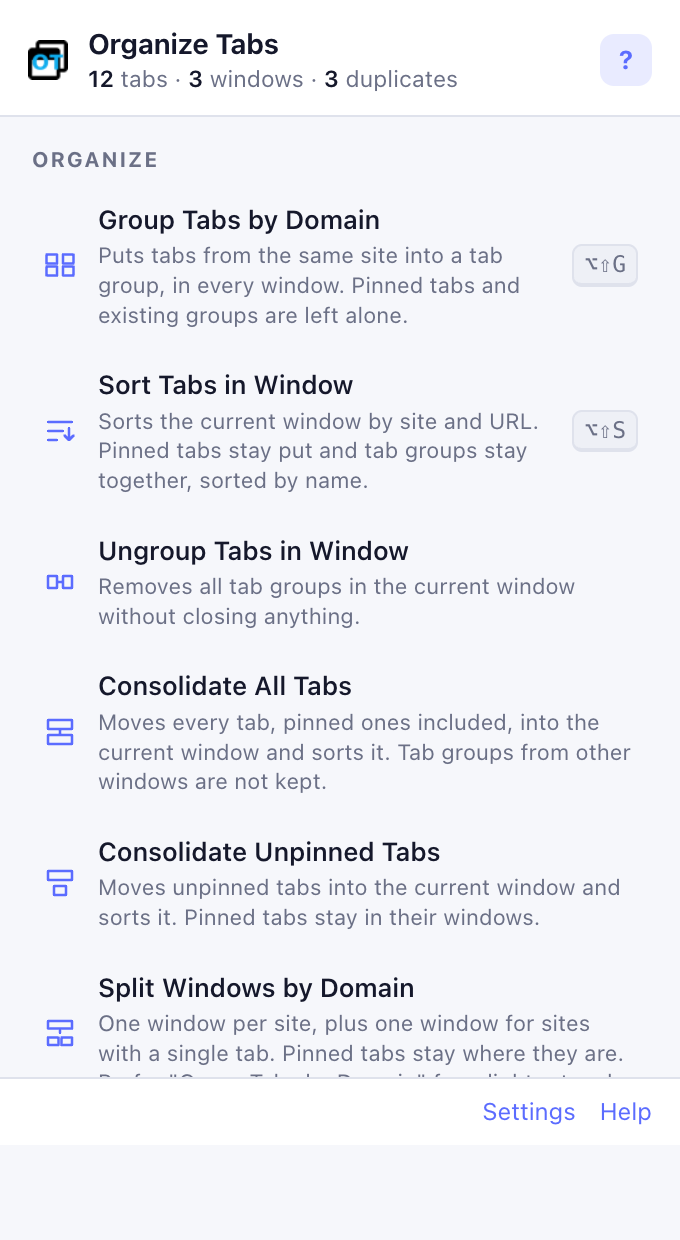
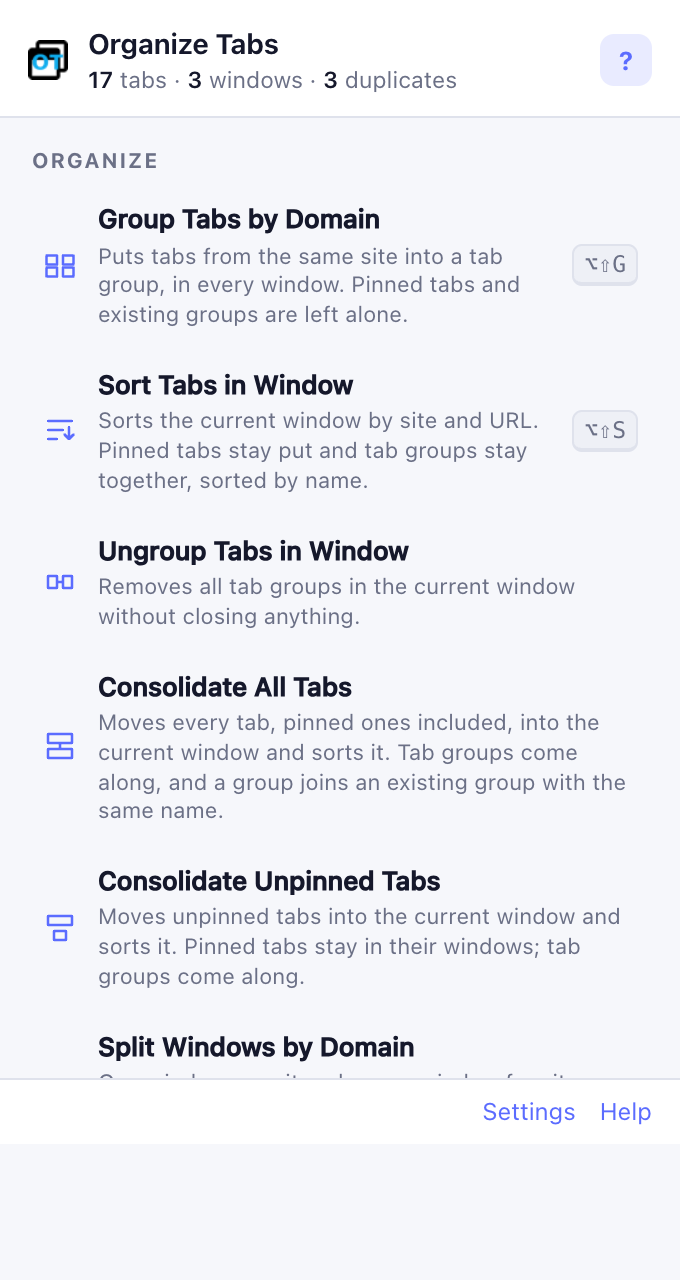
Version 2.0.0; Chrome Web Store listing kit and screenshot generator
Bumps the version to 2.0.0 and trims the manifest description to the
store's 132-character summary limit. STORE_LISTING.md holds the detailed
description, permission justifications and privacy answers to paste into
the dashboard. scripts/screenshots.mjs (make screenshots) renders the
README images and five 1280x800 store screenshots from the holodeck.
README gains a Privacy section to serve as the privacy policy link.

diff --git a/STORE_LISTING.md b/STORE_LISTING.md
@@ -1,0 +1,106 @@
+# Chrome Web Store listing kit
+
+Everything to paste into the developer dashboard for a release. Regenerate the images with `make screenshots`.
+
+Listing: <https://chrome.google.com/webstore/detail/organize-tabs/ebnlpacdgjnofakgfgbildmjdhbibnpa>
+Dashboard: <https://chrome.google.com/webstore/devconsole>
+
+## Package
+
+`make package` builds `organize_tabs-<version>.zip`. CI attaches the same zip to every run as the `organize-tabs-zip` artifact.
+
+## Store listing tab
+
+**Summary** (comes from `manifest.json` → `description`, max 132 characters):
+
+> Group, sort, deduplicate and tidy tabs. Catches duplicate PRs, tickets, profiles and docs even when the URLs differ.
+
+**Category:** Productivity → Tools (Workflow & Planning also fits)
+
+**Language:** English
+
+**Detailed description:**
+
+```
+Organize Tabs is for people who keep a lot of tabs open. One click groups, sorts, deduplicates and tidies tabs across every window, and it knows that a pull request, a ticket, a profile or a document is the same page even when the URL is different.
+
+DEDUPLICATE, PROPERLY
+A pull request and its Files tab. A Jira issue and its board link. A LinkedIn profile and its Experience page. A YouTube video and its short link. A Google Doc in edit and view mode. Built-in rules collapse all of these to one tab and keep the pinned, active, or most recently viewed copy. Rules are editable, with a live tester, and you can add your own.
+
+TURN IT ON AND FORGET IT
+Auto-deduplicate closes a freshly opened link that is already open somewhere and jumps you to the existing tab. Off by default.
+
+CLOSE TABS LIKE THIS ONE
+From any tab, close everything on the same domain, in the same section of the site, or the same kind of page: every open pull request, every profile. Keep the one you are on. Always with a preview first, always with undo.
+
+ORGANIZE
+• Group Tabs by Domain using native tab groups
+• Sort Tabs in Window by site and URL, keeping groups together
+• Consolidate every window into one, or split windows by domain
+• Pinned tabs never move. Tab groups travel between windows intact and merge into a group with the same name.
+
+MEETINGS AND MEDIA
+Pull every meeting and playing tab into its own window with one click. Windows holding a call or a player are left alone by Consolidate and Split, so a tidy-up never pulls the meeting out from under you.
+
+CLEAN UP
+• Close stale tabs you have not looked at in days
+• Free memory by discarding stale tabs without closing them
+• Close blank tabs
+• Park a whole window to a dated bookmark folder, and restore it later as a tab group
+• Undo the last close
+
+SETTINGS THAT FOLLOW YOU
+Preferences and rules sync with your browser profile. Export and import JSON to move between profiles, or point at a rules file you host and it refreshes on a schedule.
+
+Keyboard shortcuts for every action, a duplicate count on the toolbar icon, a right-click menu, light and dark themes, inline help.
+
+Vanilla JavaScript, no build step, no dependencies, no tracking, no network requests except an optional rules file you configure. Open source under the MIT license: https://github.com/hacktoolkit/organize-tabs-chrome-extension
+```
+
+**Screenshots** (1280x800, upload in this order from `promo/store/`):
+
+1. `1-popup.png` — the popup with live counts
+2. `2-dedupe.png` — duplicate preview
+3. `3-scope.png` — close tabs like this one
+4. `4-help.png` — inline help
+5. `5-rules.png` — settings and rules
+
+**Icon:** `img/icon128.png`
+
+**Small promo tile (440x280) and marquee (1400x560):** optional; not generated yet.
+
+## Privacy tab
+
+**Single purpose:**
+
+> Organize Tabs organizes the user's open browser tabs: grouping, sorting, deduplicating, closing and moving them between windows.
+
+**Permission justifications:**
+
+| Permission | Justification |
+| --- | --- |
+| `tabs` | Read tab URLs and titles to find duplicates, sort by URL, group by site, and show previews; move and close tabs. This is the extension's entire function. |
+| `tabGroups` | Create, name and colour tab groups for "Group Tabs by Domain", and keep existing groups intact when sorting or moving tabs between windows. |
+| `storage` | Save the user's preferences and duplicate rules, synced with the browser profile, plus the session undo stack. |
+| `bookmarks` | "Park Window to Bookmarks" saves the current window's tabs into a bookmark folder the user names, and "Restore Last Parked" reopens them. No other bookmarks are read or modified. |
+| `contextMenus` | Offer every action from the page right-click menu. |
+| `alarms` | Refresh the optional remote rules file on the schedule the user sets. |
+| Optional host permissions `https://*/*`, `http://*/*` | Requested at runtime, only for the origin of a remote rules file the user explicitly configures, so it can be fetched when the host does not send CORS headers. Never requested otherwise. |
+
+**Remote code:** No. All code ships in the package. The optional remote rules file is JSON data, parsed and validated, never executed.
+
+**Data usage:** The extension does not collect, transmit or sell any user data. Tab URLs and titles are processed locally in the browser only. Check "Does not collect or use user data" or the equivalent; if the form insists on a declaration, the only data handled is "Website content (URLs and page titles of open tabs)", used for the extension's core functionality, not transmitted off the device.
+
+**Privacy policy URL:** the README section "Privacy" at https://github.com/hacktoolkit/organize-tabs-chrome-extension#privacy
+
+## Distribution tab
+
+Visibility: Public. Regions: all.
+
+## Why users see a permission prompt on this update
+
+Version 2.0.0 adds `tabGroups`, `storage`, `bookmarks` and `alarms`. Chrome disables the extension until the user accepts the new permissions. Mention it in the release notes.
+
+## Release notes (paste into the GitHub Release)
+
+See the pull request description for v2.0.0: https://github.com/hacktoolkit/organize-tabs-chrome-extension/pull/9

diff --git a/README.md b/README.md
@@ -127,11 +127,17 @@ test/                  node --test suites
 
 All tab operations run in the service worker. The popup only sends messages, because Chrome closes the popup as soon as a new window is created or focused.
 
+## Privacy
+
+Organize Tabs does not collect, store remotely, or transmit any data. Tab URLs and titles are read and processed only inside your browser to find duplicates, sort and group. Preferences and rules are saved in your browser profile's own storage. The only network request the extension can make is to fetch a rules file at a URL you configure yourself, and that is off by default.
+
 ## Building and publishing
 
 ```sh
 make package       # organize_tabs-<version>.zip
 ```
+
+`STORE_LISTING.md` has the store description, permission justifications and privacy answers to paste into the dashboard, and `make screenshots` regenerates the README images and the 1280x800 store screenshots in `promo/store/` from the holodeck.
 
 CI also attaches the zip to every run as the `organize-tabs-zip` artifact (Actions tab, pick a run, Artifacts). To try a build on another machine without cloning: download it, unzip, then `chrome://extensions` → Developer mode → **Load unpacked** → pick the unzipped folder.
 

diff --git a/AGENTS.md b/AGENTS.md
@@ -18,6 +18,8 @@ src/ui.css             shared design tokens, light and dark
 test/url.test.js       node --test suite for src/lib/url.js
 scripts/e2e.mjs        headless browser test over the DevTools protocol
 scripts/dev.mjs        launches the holodeck dev profile with sample tabs
+scripts/screenshots.mjs renders README images and 1280x800 store screenshots
+STORE_LISTING.md       Chrome Web Store copy, permission justifications, privacy answers
 ```
 
 ## Rules of the road
@@ -52,4 +54,7 @@ CI (`.github/workflows/ci.yml`) runs `make check`, `make test` on Node 22 and 24
 
 ## Releasing
 
-Bump `version` in `manifest.json`, run `make package`, upload the zip to the Chrome Web Store dashboard.
+1. Bump `version` in `manifest.json` and `package.json`. The manifest `description` is the store summary and must stay at or under 132 characters.
+2. `make screenshots` if the UI changed, and update `STORE_LISTING.md` if actions or permissions changed.
+3. Merge, tag `vX.Y.Z`, create a GitHub Release with the CI zip attached.
+4. Upload the zip to the Chrome Web Store dashboard and paste from `STORE_LISTING.md`.
